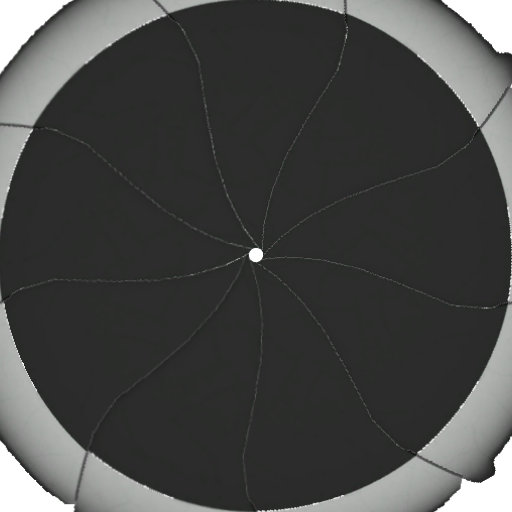
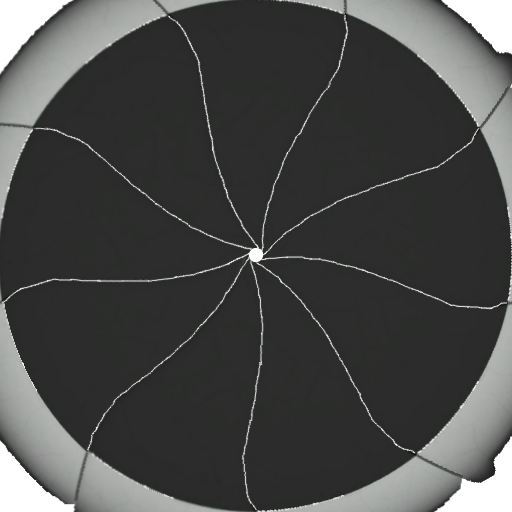
Removed useless code and updated shutter texture

diff --git a/TP1/MyNode.js b/TP1/MyNode.js
@@ -90,13 +90,7 @@ class MyNode {
             }
         }
 
-        this.children = result;
-
-        // TODO:
-        if (result.length == 0) {
-            graphScene.onXMLMinorError("TO DO\nEliminate nodes with no descendants due to errors?\nTO DO\n");
-        }
-        
+        this.children = result;        
     }
 
     display() {
